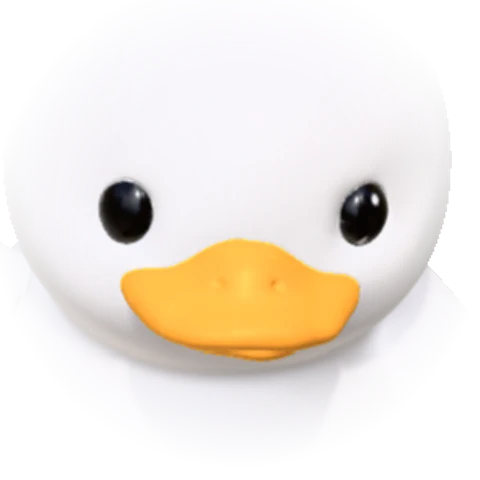
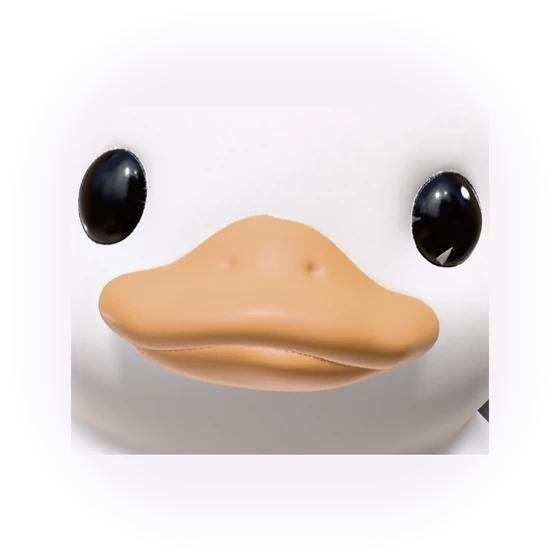
feat: 빈 화면 그림을 새 정면 사진으로, 연령대 제거, 카카오 심볼
주신 정면 사진으로 빈 화면 그림을 다시 구웠다. 이 원본은 얼굴이
프레임을 꽉 채운 확대 컷이라 두 눈이 좌우 끝에 붙어 있다. 원형
그라데이션을 씌우니 중심에서 가장 먼 눈부터 지워졌다. 배경색으로
사방에 여백을 둘러 눈을 안쪽으로 들여놓고, 둥근 사각까지의 거리로
알파를 직접 매겼다.

굽는 과정에서 두 번 헛돌았다. SVG feGaussianBlur 는 필터 영역이
번지면서 마스크를 좌상단으로 밀어 왼쪽과 위만 사라졌다. 그리고
sharp 는 체이닝 순서와 무관하게 resize 를 extend 보다 먼저 돌린다.
이어 쓰면 560 으로 줄인 뒤 여백이 붙어 804x923 이 나온다. 여백을
먼저 붙여 버퍼로 받고 줄이는 것을 따로 했다. 두 번 다 눈으로는
"뭔가 이상한데" 수준이라, 알파를 네 변에서 재서 대칭인지 숫자로
확인하는 줄을 스크립트에 남겼다.

연령대 선택칸은 갤러리에서 뺐다. 참여 조건을 두지 않기로 해서
성별·연령으로 거를 일이 없어졌다. 다만 미성년 차단은 남는 문제라
가입 단계에서 연령을 받을지는 따로 정해야 한다.

카카오 버튼에 말풍선 심볼을 넣었다. 실제 연동할 때는 카카오
디벨로퍼스에서 받은 공식 파일로 바꾼다.

Changed region(s): [[0.125, 0.25, 0.9375, 0.8125], [0.0625, 0.5312, 0.125, 0.625]]

diff --git a/src/app/dev/gallery/Gallery.tsx b/src/app/dev/gallery/Gallery.tsx
@@ -9,7 +9,7 @@
  */
 import { useState } from 'react'
 import { Field, TextInput, TextArea, Select, Checkbox } from '@/components/ui/Field'
-import { Button, Badge, Avatar, Who, Blank, Skeleton, Sheet, Tabs } from '@/components/ui/Basics'
+import { Button, Badge, Avatar, Who, Blank, Skeleton, Sheet, Tabs, KakaoMark } from '@/components/ui/Basics'
 import { PostCard, Comment } from '@/components/ui/Post'
 
 function Row({ title, note, children }: { title: string; note?: string; children: React.ReactNode }) {
@@ -105,17 +105,6 @@ export default function Gallery() {
           </Field>
         </Case>
 
-        <Case label="선택">
-          <Field label="연령대" required>
-            <Select defaultValue="">
-              <option value="" disabled>골라주세요</option>
-              <option>20대 초반</option>
-              <option>20대 후반</option>
-              <option>30대</option>
-            </Select>
-          </Field>
-        </Case>
-
         <Case label="체크">
           <Checkbox label="비밀 댓글로 남기기" defaultChecked />
         </Case>
@@ -143,7 +132,7 @@ export default function Gallery() {
           </div>
         </Case>
         <Case label="넓게">
-          <Button block tone="kakao">카카오로 시작하기</Button>
+          <Button block tone="kakao"><KakaoMark />카카오로 시작하기</Button>
         </Case>
       </Row>
 

diff --git a/src/components/ui/Basics.tsx b/src/components/ui/Basics.tsx
@@ -6,6 +6,22 @@ import type { ReactNode, ButtonHTMLAttributes } from 'react'
 
 /* ── 버튼 ─────────────────────────────────────────────── */
 
+/**
+ * 카카오 말풍선. 카카오 로그인 버튼에는 심볼을 함께 두라는 것이
+ * 카카오 쪽 안내다. 실제 연동할 때는 카카오 디벨로퍼스에서 받은
+ * 공식 파일로 바꾼다. 지금은 모양만 맞춰 둔 것이다.
+ */
+export function KakaoMark() {
+  return (
+    <svg className="btn__mark" viewBox="0 0 18 18" aria-hidden focusable="false">
+      <path
+        fill="currentColor"
+        d="M9 1.7C4.6 1.7 1 4.5 1 8c0 2.2 1.5 4.2 3.7 5.3l-.8 3.1c-.1.3.2.5.5.3l3.7-2.4c.3 0 .6.1.9.1 4.4 0 8-2.8 8-6.4S13.4 1.7 9 1.7z"
+      />
+    </svg>
+  )
+}
+
 type ButtonProps = ButtonHTMLAttributes<HTMLButtonElement> & {
   tone?: 'primary' | 'ghost' | 'danger' | 'kakao'
   size?: 'md' | 'sm'

diff --git a/src/app/ui.css b/src/app/ui.css
@@ -158,6 +158,7 @@
 /* 카카오 브랜드 색. 이 노랑은 카카오만 쓰므로 토큰으로 올리지 않고
    버튼에만 묶어둔다. 다른 자리에 새면 브랜드가 섞인다 */
 .btn--kakao { background: #fee500; color: rgba(0, 0, 0, .85); }
+.btn__mark { width: 18px; height: 18px; flex: 0 0 auto; }
 .btn--kakao:hover { background: #f2d900; }
 
 .btn--sm { min-height: 34px; padding: 0 12px; font-size: 14px; }
